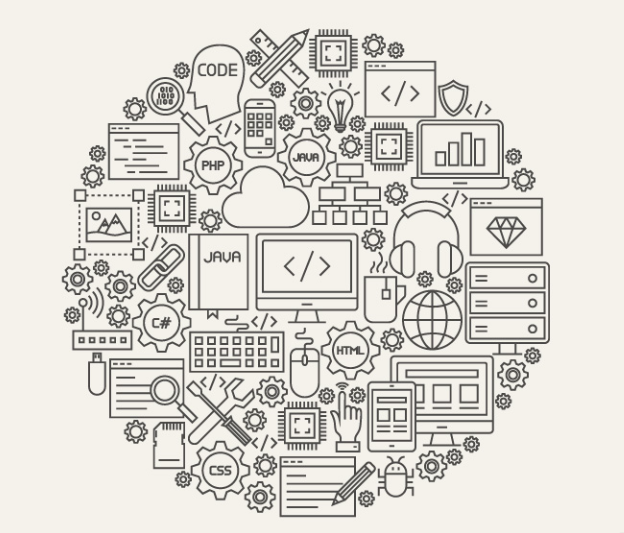
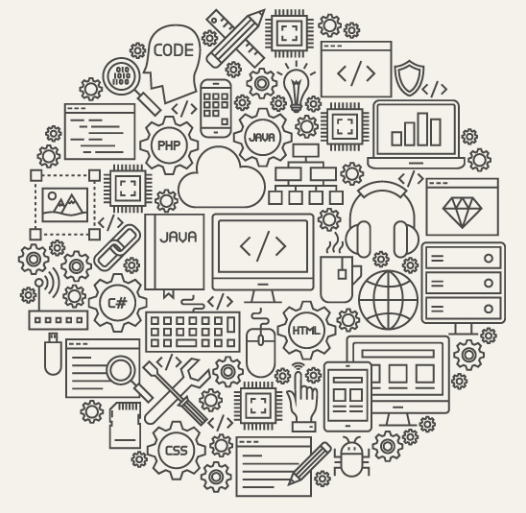
refactor

diff --git a/src/index.css b/src/index.css
@@ -131,12 +131,12 @@ body {
   max-width: 1200px;
   background-color: rgb(16, 15, 15);
   color: white;
-  padding: 100px 10px;
+  padding: 10px 1px;
+  /* border: #1de9b6 solid 1px; */
   align-items: center;
   column-gap: 1px;
   row-gap: 1px;
   /* border: 1px solid rgb(143, 137, 137); */
-  justify-content: end;
   position: fixed;
   top: 50%;
   left: 50%;
@@ -149,7 +149,11 @@ body {
   margin: 0 auto;
   font-size: 48px;
 }
-
+.about__right {
+  /* border: 2px solid rgb(143, 137, 137); */
+  margin: 0 auto;
+  text-align: center;
+}
 .about-menu {
   flex-direction: row;
   column-gap: 10px;
@@ -164,11 +168,6 @@ body {
     color: #d33b41;
     filter: brightness(0.8);
   }
-}
-
-.about__right {
-  /* border: 2px solid rgb(143, 137, 137); */
-  text-align: center;
 }
 
 .main {
@@ -300,8 +299,10 @@ body {
   font-size: 14px;
   align-self: center;
   border-radius: 50%;
+  height: 450px;
+  width: 450px;
   background-color: rgb(24, 23, 23);
-  /* box-shadow: 5px 5px 8px 0px rgb(87, 86, 80);   */
+  box-shadow: 5px 5px 8px 0px rgb(83, 82, 81);
 }
 .u-blue {
   color: #64b5f6;

diff --git a/src/components/Projects.tsx b/src/components/Projects.tsx
@@ -52,13 +52,24 @@ const Projects = ({ title, content, icon, items }: Props) => {
               <div>
                 <h4
                   style={{
-                    paddingTop: "5px",
+                    paddingTop: "10px",
                   }}
                 >
                   {project.name}
                 </h4>
-                <p style={{ fontSize: "12px" }}>{project.description}</p>
-                <p style={{ fontSize: "12px", color: "#64B5F6" }}>
+                <p style={{ fontSize: "12px", fontWeight: "500" }}>
+                  {project.timeline}
+                </p>
+                <p style={{ fontSize: "12px", paddingTop: "5px" }}>
+                  {project.description}
+                </p>
+                <p
+                  style={{
+                    fontSize: "12px",
+                    color: "#64B5F6",
+                    paddingTop: "10px",
+                  }}
+                >
                   Technology:{project.technology}
                 </p>
               </div>

diff --git a/src/components/About.tsx b/src/components/About.tsx
@@ -70,10 +70,9 @@ const About = () => {
             exit={{ opacity: 0 }}
           >
             <motion.img
-              src="Art2.PNG"
+              src="Art1.PNG"
               alt="logo"
               className="about__logo"
-              
               whileHover={{ rotate: 30 }}
               initial={{ rotate: 0 }}
               transition={{

diff --git a/src/lib/helper.ts b/src/lib/helper.ts
@@ -89,6 +89,7 @@ export type projects = {
   name: string;
   description: string;
   technology: string;
+  timeline: string;
 };
 
 export function getThemeColor(theme: string, component: string): string {
